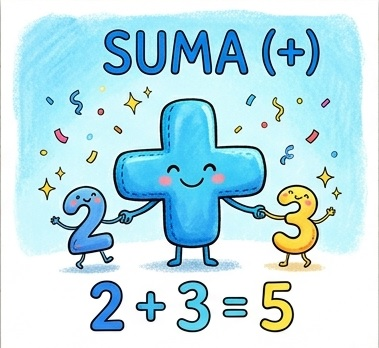
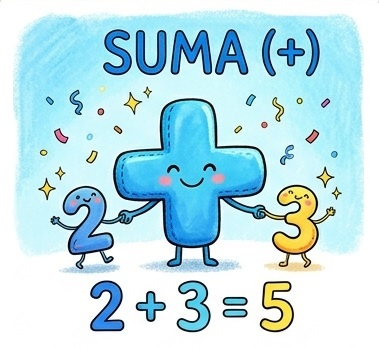
Add files via upload

Changed region(s): [[0.9868, 0.0, 1.0, 1.0]]

diff --git a/Temario/Blog/Primaria.html b/Temario/Blog/Primaria.html
@@ -148,7 +148,7 @@
             background: #ffffff;
             border: 1px solid var(--border-color);
             border-radius: 12px;
-            padding: 15px;
+            padding: 10px;
             text-decoration: none;
             color: var(--primary-color);
             font-weight: bold;
@@ -163,7 +163,7 @@
 
         .op-card img {
             width: 100%;
-            height: 120px;
+            height: 150px;
             object-fit: contain;
             border-radius: 8px;
             margin-bottom: 10px;
